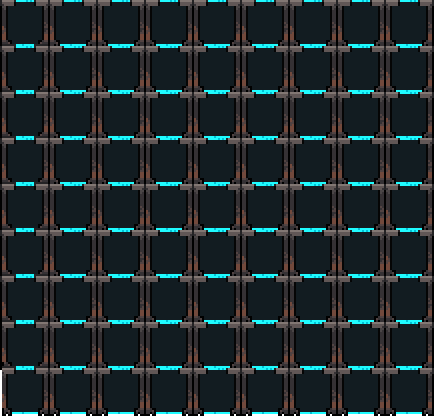
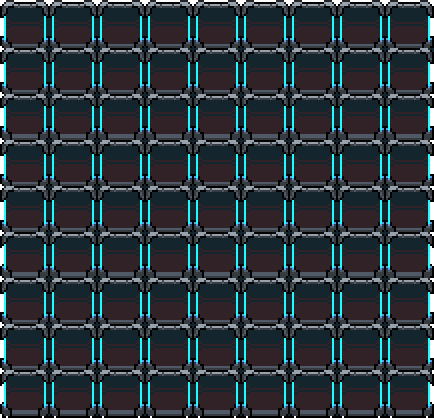
欧米茄合成UI将使用新的纹理

diff --git a/Content/UIs/SupertableUIs/CraftingSlotHighlighter.cs b/Content/UIs/SupertableUIs/CraftingSlotHighlighter.cs
@@ -1,6 +1,7 @@
 using CalamityOverhaul.Common;
 using InnoVault.UIHandles;
 using Microsoft.Xna.Framework.Graphics;
+using ReLogic.Content;
 using Terraria;
 using Terraria.Audio;
 using Terraria.GameContent;
@@ -12,13 +13,13 @@ namespace CalamityOverhaul.Content.UIs.SupertableUIs
     {
         public static CraftingSlotHighlighter Instance;
         public override Texture2D Texture => CWRUtils.GetT2DValue("CalamityOverhaul/Assets/UIs/SupertableUIs/CallFull");
+        public static Asset<Texture2D> eyeAsset;
         public override float RenderPriority => 2;
         public override bool Active {
             get {
                 if (SupertableUI.Instance == null) {
                     return false;
                 }
-
                 return SupertableUI.Instance.Active;
             }
         }
@@ -26,9 +27,12 @@ namespace CalamityOverhaul.Content.UIs.SupertableUIs
         public Rectangle MainRec;
         public bool onMainP;
         public bool eyEBool;
-
         public override void Load() => Instance = this;
-        void ICWRLoader.UnLoadData() => Instance = null;
+        void ICWRLoader.LoadAsset() => eyeAsset = CWRUtils.GetT2DAsset("CalamityOverhaul/Assets/UIs/SupertableUIs/Eye");
+        void ICWRLoader.UnLoadData() {
+            Instance = null;
+            eyeAsset = null;
+        }
         public override void Update() {
             DrawPosition = mainUI.DrawPosition + new Vector2(460, 420);
             MainRec = new Rectangle((int)DrawPosition.X, (int)DrawPosition.Y, 30, 30);
@@ -48,12 +52,7 @@ namespace CalamityOverhaul.Content.UIs.SupertableUIs
             }
         }
         public override void Draw(SpriteBatch spriteBatch) {
-            Texture2D eye0 = CWRUtils.GetT2DValue("CalamityOverhaul/Assets/UIs/SupertableUIs/Eye0");
-            Texture2D eye1 = CWRUtils.GetT2DValue("CalamityOverhaul/Assets/UIs/SupertableUIs/Eye1");
-            spriteBatch.Draw(eye0, DrawPosition, null, Color.White, 0, Vector2.Zero, 1, SpriteEffects.None, 0);
-            if (eyEBool) {
-                spriteBatch.Draw(eye1, DrawPosition, null, Color.White, 0, Vector2.Zero, 1, SpriteEffects.None, 0);
-            }
+            spriteBatch.Draw(eyeAsset.Value, DrawPosition, CWRUtils.GetRec(eyeAsset.Value, eyEBool ? 1 : 0, 2), Color.White, 0, Vector2.Zero, 1, SpriteEffects.None, 0);
             if (mainUI.items != null) {
                 for (int i = 0; i < mainUI.items.Length; i++) {
                     if (mainUI.items[i] == null) {
@@ -63,7 +62,7 @@ namespace CalamityOverhaul.Content.UIs.SupertableUIs
                         mainUI.previewItems[i] = new Item();
                     }
                     if (mainUI.items[i].type != mainUI.previewItems[i].type && mainUI.items[i].type != ItemID.None && eyEBool) {
-                        Vector2 pos = mainUI.ArcCellPos(i) + new Vector2(-1, -2);
+                        Vector2 pos = mainUI.ArcCellPos(i) + new Vector2(-1, 0);
                         spriteBatch.Draw(Texture, pos, null, Color.White * 0.6f, 0, Vector2.Zero, 1, SpriteEffects.None, 0);
                     }
                 }
